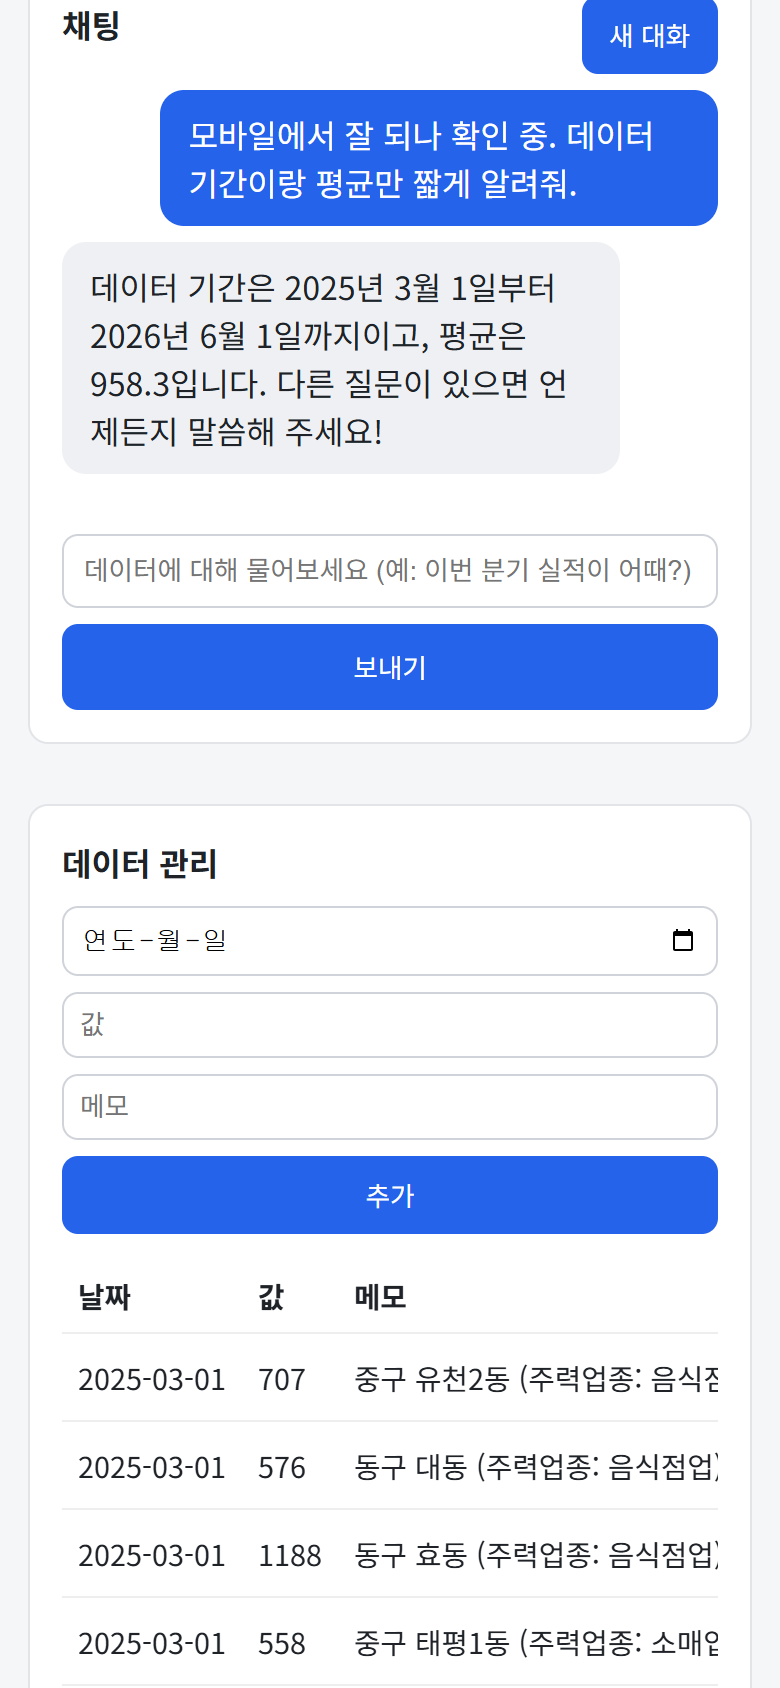
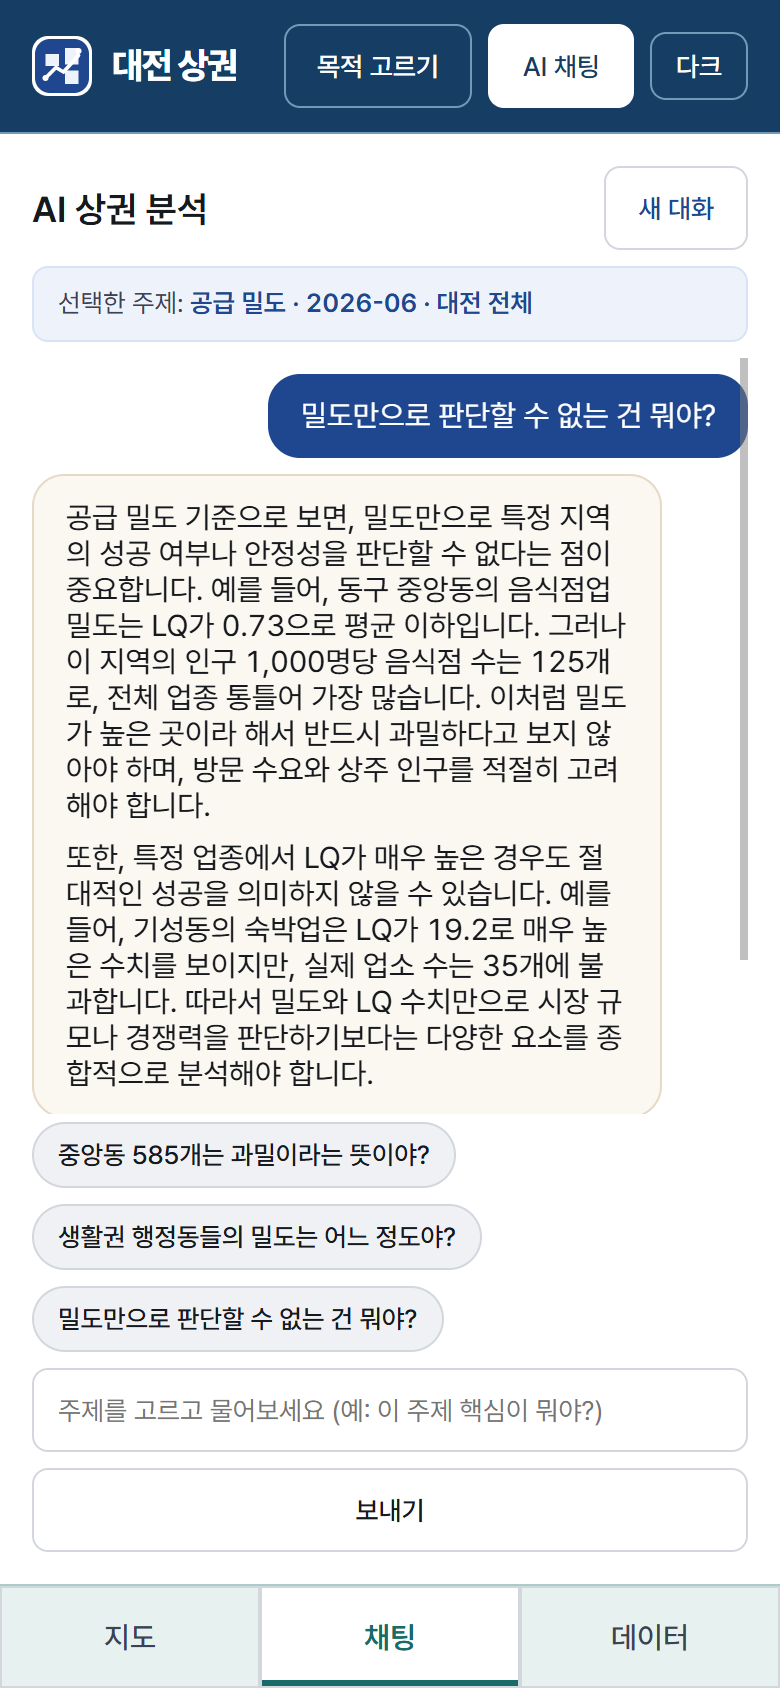
docs: README 스크린샷을 현재 화면으로 교체한다
기존 5장은 2026-09-08자였다. 지도 중심 전환(A22)·다크 모드(A32)·
브랜드 헤더 이전이라 첫 화면 이미지가 지금 제품과 달랐다 — README를
연 사람이 보는 첫 장면이 존재하지 않는 화면이었다.

배포본에서 다시 찍었다.
- 1 히어로: 서구 둔산1동 선택(131.4개) + 실제 AI 답변. 지도·수치·
  근거·한계를 한 장에 담는다
- 2 목적 선택 패널 / 3 다크 모드 / 5 데이터·대화 기록 / 4 모바일 채팅

히어로 아래에 한 줄 캡션을 붙였다 — 무엇을 보고 있는지 말해 주지
않으면 스크린샷은 그냥 그림이다.

주요 기능에 지역 검색과 라이트/다크를 추가했다. 둘 다 들어와 있는데
목록에 없었다.

코덱스가 쓴 구성·문체·나머지 섹션은 그대로 뒀다.

찍는 동안 발견한 결함 하나를 task.md §4에 남긴다: 390px에서 지도
툴바가 첫 화면을 거의 다 차지해 지도가 살짝만 보인다.

Claude-Session: https://claude.ai/code/session_01GtTHvihMB9AWqrveFPAZ6U

diff --git a/README.md b/README.md
@@ -16,7 +16,12 @@
 
 <br />
 
-![대화와 데이터 요약 화면](assets/screenshot-1-chat-summary.png)
+![대전 82개 행정동 지도와 근거를 곁들인 AI 답변](assets/screenshot-1-map-chat.png)
+
+<div align="center">
+<sub>동을 하나 고르면 그 지역의 수치가 화면에서 가장 크게 섭니다 — <b>서구 둔산1동, 인구 1,000명당 131.4개.</b><br />
+오른쪽 AI는 그 숫자만 되풀이하지 않고 <b>어떻게 읽어야 하는지와 무엇을 알 수 없는지</b>를 함께 답합니다.</sub>
+</div>
 
 > [!NOTE]
 > Render 무료 인스턴스는 15분 유휴 후 첫 요청에 30~50초가 걸릴 수 있습니다. 요청은 자동으로 완료되며, 화면이 경과 시간과 상태를 안내합니다.
@@ -48,14 +53,18 @@
 | 04 | **스트리밍 답변** | 토큰이 도착하는 대로 보여 주고, SSE가 막힌 환경에서는 일반 응답으로 안전하게 전환합니다. |
 | 05 | **4단 리포트** | `요약 → 핵심 수치 → 해석 → 한계` 형식의 가져갈 수 있는 산출물을 만듭니다. |
 | 06 | **데이터와 대화 관리** | 데이터 CRUD, 요약 갱신, 대화 자동 저장·불러오기·삭제를 제공합니다. |
+| 07 | **지역 검색** | 자치구·행정동 이름으로 찾아 지도와 지표를 그 지역으로 옮깁니다. |
+| 08 | **라이트 · 다크** | OS 설정을 따르되 버튼으로 덮어쓸 수 있고, 지도 색 램프도 어두운 배경에 맞춰 방향을 다시 잡습니다. |
 
 <details>
 <summary><b>화면 더 보기</b></summary>
 <br />
 
-| 데이터 관리 | 대화 기록 불러오기 | 모바일 |
-|---|---|---|
-| ![데이터 CRUD](assets/screenshot-2-data-crud.png) | ![대화 기록](assets/screenshot-3-history-load.png) | ![모바일 채팅](assets/screenshot-4-mobile-chat.png) |
+| 처음 오면 목적부터 고릅니다 | 라이트 · 다크 |
+|---|---|
+| ![목적 선택 패널](assets/screenshot-2-onboarding.png) | ![다크 모드 화면](assets/screenshot-3-dark.png) |
+| **데이터와 대화 기록** | **모바일** |
+| ![데이터 요약·대화 기록·데이터 관리 패널](assets/screenshot-5-data-history.png) | ![모바일 채팅 화면](assets/screenshot-4-mobile-chat.png) |
 
 </details>
 

diff --git a/task.md b/task.md
@@ -72,6 +72,7 @@
 | **P2** | 스트리밍 폴백 idempotency | 첫 delta 전 연결이 끊기면 프런트가 일반 채팅을 자동 재시도한다. 서버가 이미 스트림을 완료·저장했지만 응답만 유실된 경우 같은 질문·비용·대화 턴이 중복될 수 있다. | 요청 idempotency 키를 서버에 저장해 같은 키의 완료 결과를 재사용하거나, 자동 폴백을 제거하고 사용자의 명시적 재시도로 바꾼다. | 스트림 완료 직후 응답을 끊는 테스트에서 OpenAI 호출과 저장된 user/assistant 턴이 각각 1회다. |
 | **P2** | 일일 토큰 예산 예약 — 구현 완료 · pytest 대기 | 예산 확인은 요청 전, 실제 토큰 누적은 요청 완료 후라서 예산 근처의 동시 요청은 모두 통과해 상한을 초과할 수 있다. | 요청 시작 시 예상 최대치(입력 추정 + 출력 상한)를 예약하고, 완료 시 실제 사용량으로 정산한다. | 예산 직전 동시 요청에서 총 예약량이 상한을 넘는 요청은 즉시 429이며, 완료 후 누적 사용량이 상한을 넘지 않는다. |
 | **P2** | 날짜 필터의 달력 검증 | `/api/data/summary`가 정규식만 검사해 `2026-99-99` 같은 날짜도 받고 문자열 비교로 처리한다. | query validator/의존성에서 `date.fromisoformat()`으로 실제 날짜와 `date_from <= date_to`를 검증한다. | 잘못된 날짜와 역순 범위는 422, 유효 경계 날짜는 기대 집계를 반환한다. |
+| **P2** | 모바일에서 지도가 접힘선 밖으로 밀린다 | 390px에서 지도 툴바(셀렉트 5개 + 지역 검색 폼 + 2D/3D + 전체 보기)가 첫 화면을 거의 다 차지해 **지도가 살짝만 보인다**(README 스크샷 찍다가 발견, 2026-09-10). 지도가 주역인 서비스에서 모바일 첫인상이 빈 툴바다. 지역 검색 폼이 들어오면서 높이가 더 늘었다. | 좁은 화면에서 툴바를 접어 두거나(기본 접힘) 한 줄로 압축한다. A27이 정리한 하단 탭을 늘리지 않는 방향으로. | 390px 첫 화면에서 지도 높이가 **뷰포트의 절반 이상**이고 가로 넘침이 0이다. |
 
 ## 5. 참고 기록
 
